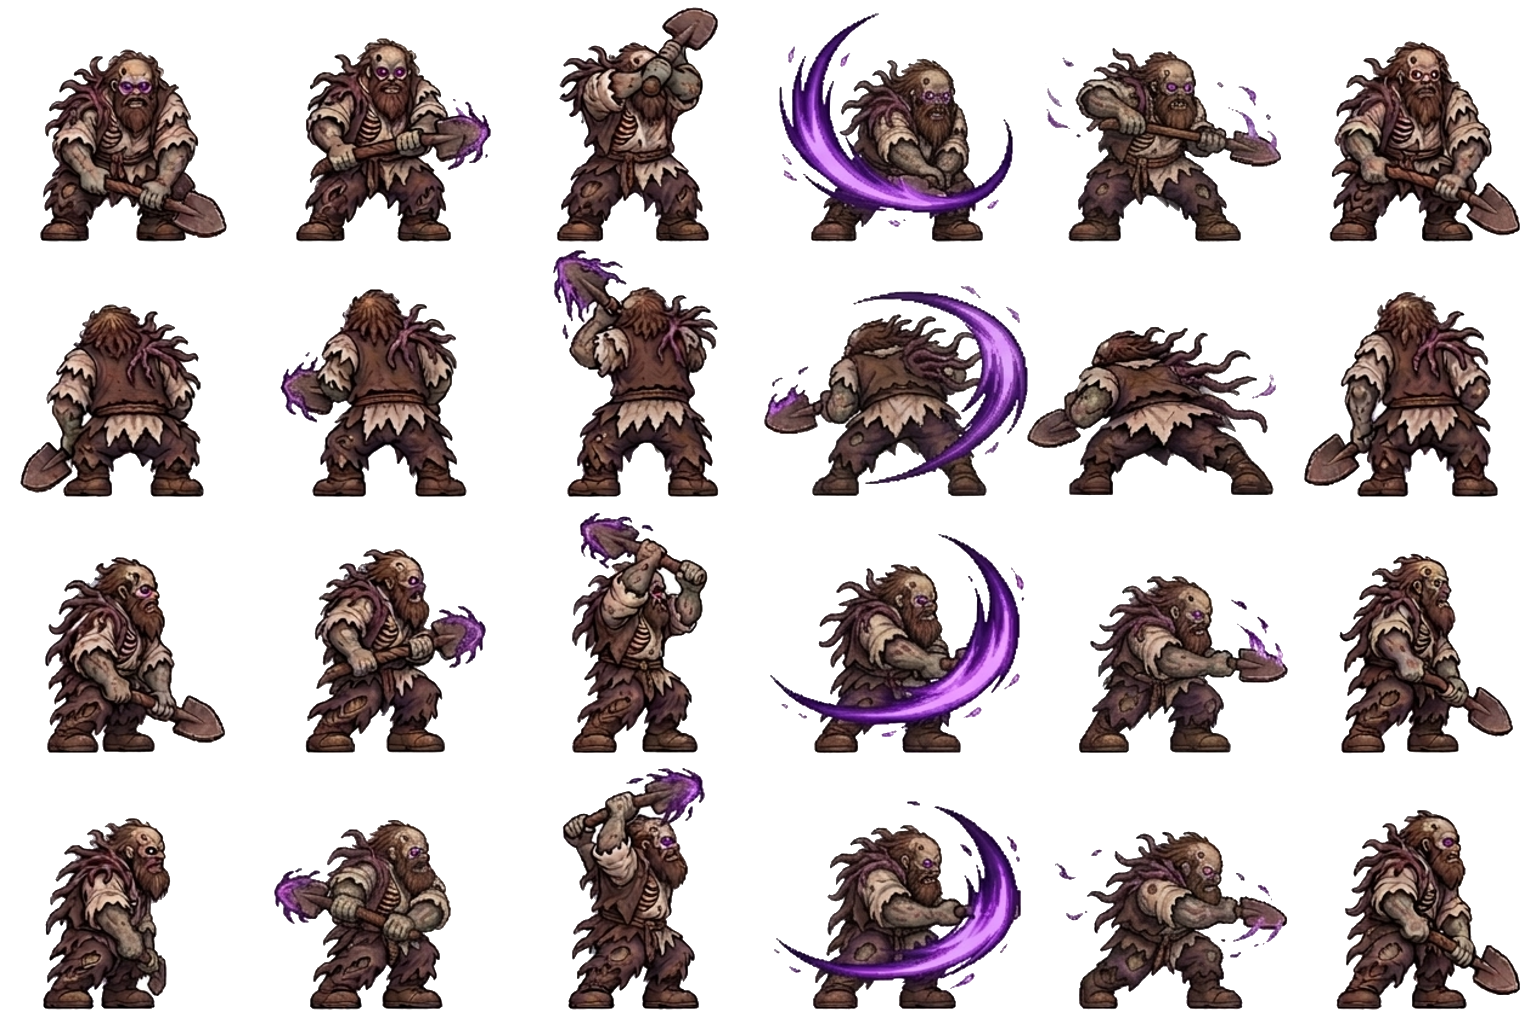
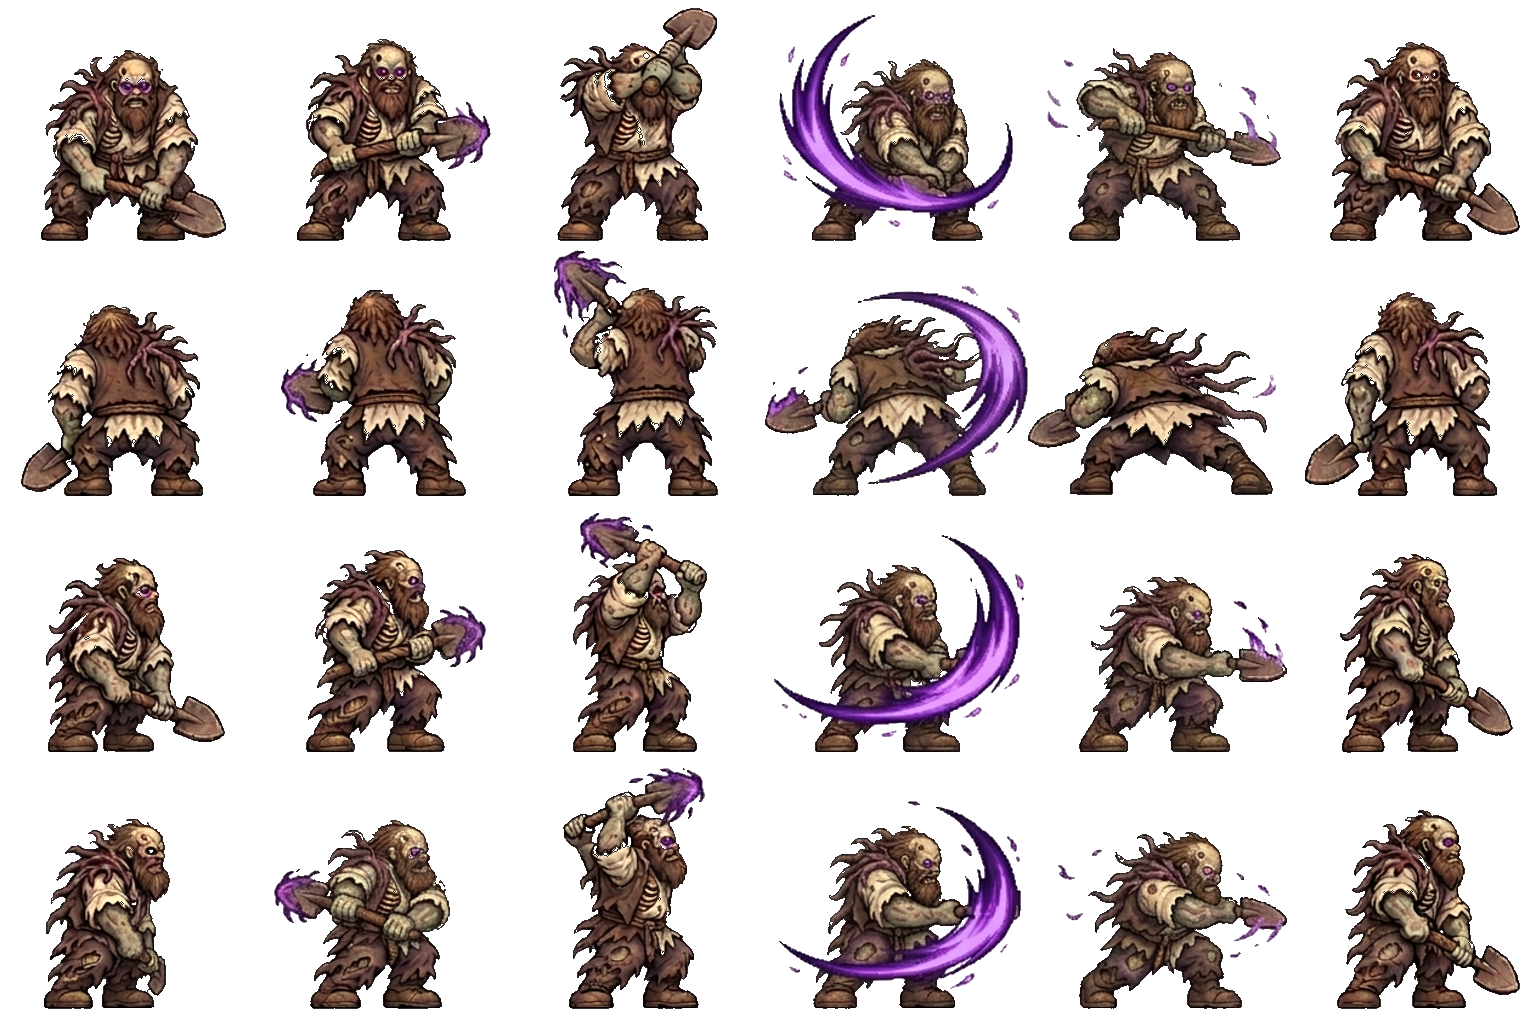
Corrige borda, cor e escala da sprite de ataque corpo a corpo do Coveiro

diff --git a/src/cemetery_enemy.c b/src/cemetery_enemy.c
@@ -254,8 +254,9 @@ void CemeteryDrawEnemies(const EnemyGroup *group, Vector2 player, bool foregroun
         Texture2D tex=atlases[pose.atlas];
         int frame=pose.frame,row=pose.row;
         float cw=(float)tex.width/pose.columns,ch=(float)tex.height/pose.rows;
-        float height=(boss?190:96)*(1.0f-.22f*collapse);
-        float width=(boss?190:96)*cw/ch;
+        float baseSize=boss?(pose.atlas==CEM_BOSS_MELEE?220:190):96;
+        float height=baseSize*(1.0f-.22f*collapse);
+        float width=baseSize*cw/ch;
         float bob=0;
         float lean=0;
         if(boss && !fallen && enemy->state!=ENEMY_DIE) {
